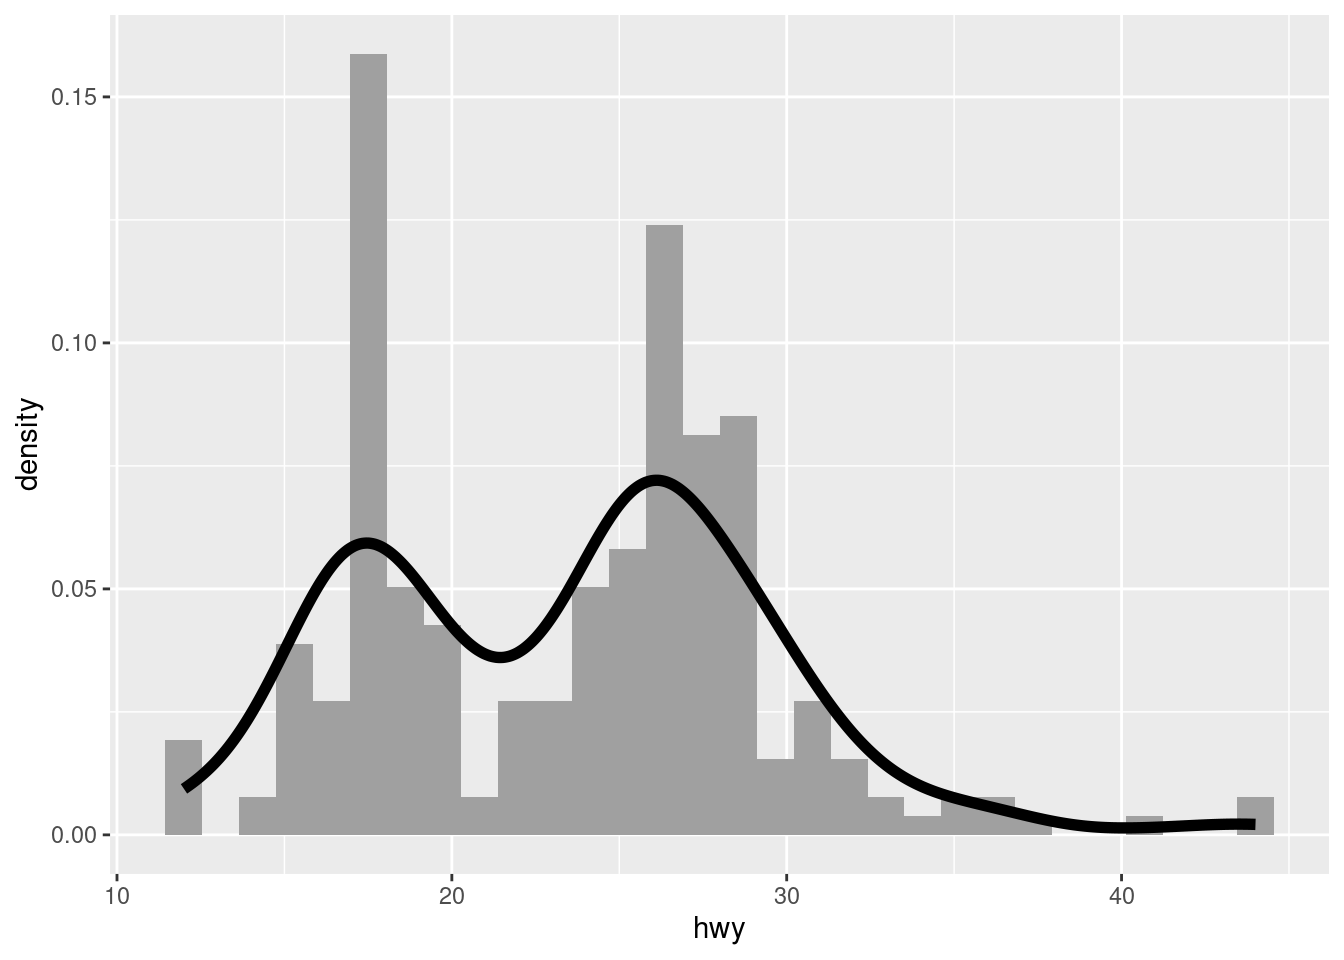
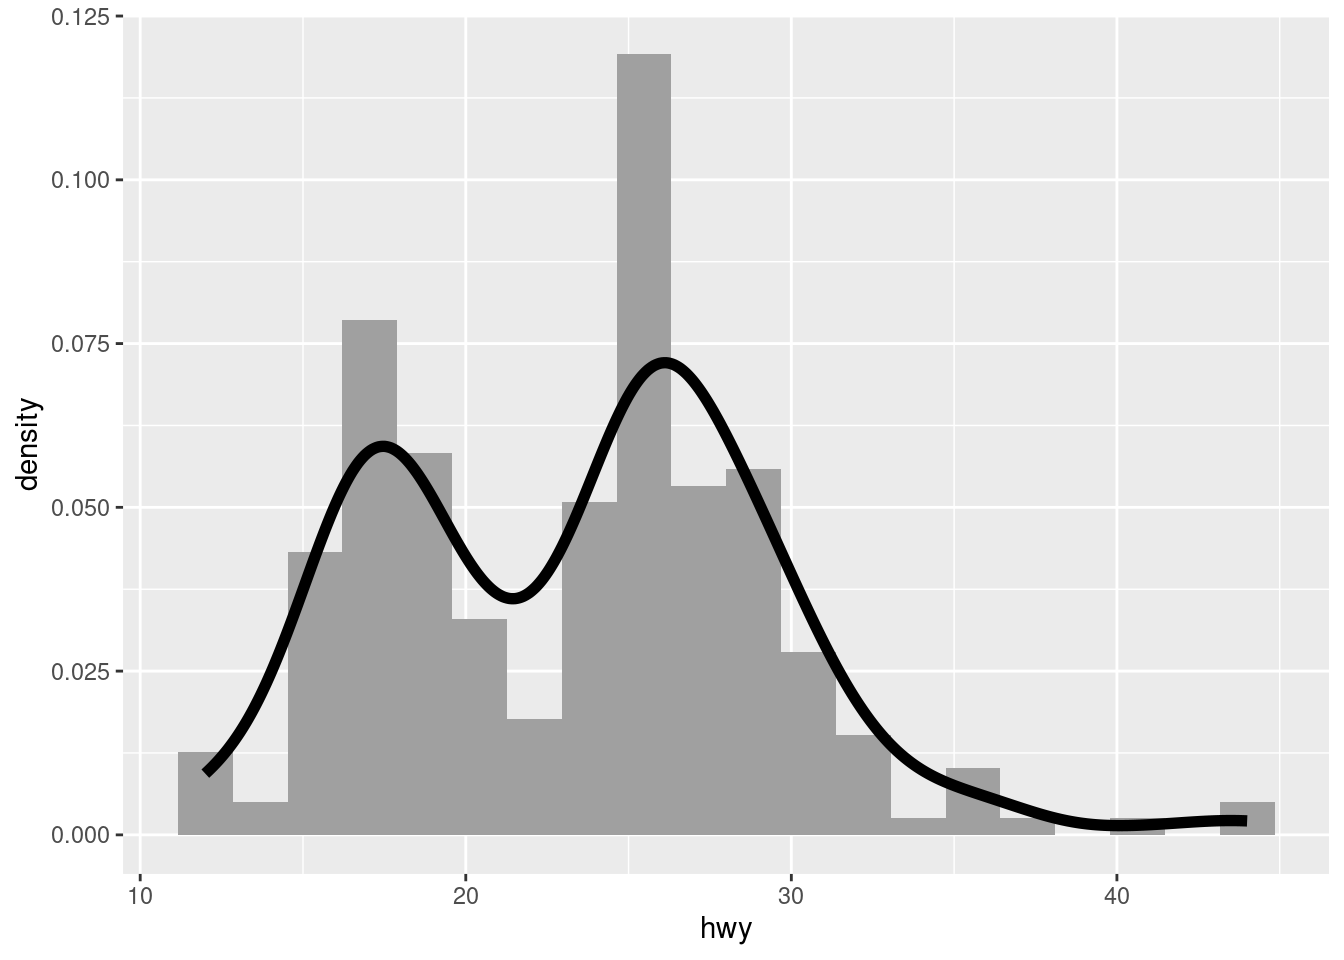
aesthetics evaluation glitch

diff --git a/content/blog/2025-09-21-aesthetics-evaluation-control-in-ggplot/index.html b/content/blog/2025-09-21-aesthetics-evaluation-control-in-ggplot/index.html
@@ -54,7 +54,7 @@ description: Description for the page
 <p><img src="{{< blogdown/postref >}}index_files/figure-html/unnamed-chunk-5-1.png" width="672" style="display: block; margin: auto;" /></p>
 <p>Below is the result of using <code>density</code>. The heigth of bars is scaled so that the <em>total area of bins</em> is equal to 1. The line obtained with <code>geom_density()</code> is computed tending the number of bins to infinity. This scaling allows the two geoms being superimposed.</p>
 <pre class="r"><code>ggplot(mpg, aes(hwy, y = after_stat(density))) +
-  geom_histogram(bins = 30, fill = &quot;#A0A0A0&quot;) +
+  geom_histogram(bins = 20, fill = &quot;#A0A0A0&quot;) +
   geom_density(linewidth = 2)</code></pre>
 <p><img src="{{< blogdown/postref >}}index_files/figure-html/unnamed-chunk-6-1.png" width="672" style="display: block; margin: auto;" /></p>
 <p>Each <code>geom_*()</code> has a <code>stat</code> variable, indicating which stat to use when calculating layer parameters. The most frequent default is <code>stat = "identity"</code>, but it can be useful to pass a different parameter. Let’s see how can we set the value of counts in a barplot.</p>
